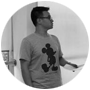
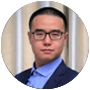
Kodluyoruz <3

diff --git a/index.html b/index.html
@@ -260,7 +260,7 @@
 
                 <div class="single_speaker">
                     <div class="speaker_thumb">
-                        <img src="img/speakers/brett-koonce.png" alt="">
+                        <img src="img/speakers/brett.png" alt="">
                         <div class="hover_overlay">
                             <div class="social_icon">
                                 <a href="https://brettkoonce.com/" target="_blank"><i class="fa fa-link"></i></a>
@@ -318,6 +318,25 @@
                         <p>Senior Android Developer at Nagarro</p>
                     </div>
                 </div>
+
+                <div class="single_speaker">
+                    <div class="speaker_thumb">
+                        <img src="img/speakers/muhammed.png" alt="">
+                        <div class="hover_overlay">
+                            <div class="social_icon">
+                                <a href="https://salih.dev/#/" target="_blank"><i class="fa fa-link"></i></a>
+                                <a href="https://github.com/salihgueler" target="_blank"><i
+                                        class="fa fa-github"></i></a>
+                                <a href="https://www.linkedin.com/in/msalihguler/" target="_blank"><i
+                                        class="fa fa-linkedin"></i></a>
+                            </div>
+                        </div>
+                    </div>
+                    <div class="speaker_name text-center">
+                        <h3>Muhammed Salih Güler</h3>
+                        <p>Senior Software Engineer at Superlist</p>
+                    </div>
+                </div>
             </div>
             <div class="col-xl-5 offset-xl-2 col-md-6">
 
@@ -359,10 +378,6 @@
                         <img src="img/speakers/abdulla-ismayilov.png" alt="">
                         <div class="hover_overlay">
                             <div class="social_icon">
-                                <a href="https://www.linkedin.com/in/malekmalkawi0/" target="_blank"><i
-                                        class="fa fa-linkedin"></i></a>
-                                <a href="https://twitter.com/malekmalkawi0?lang=en" target="_blank"><i
-                                        class="fa fa-twitter"></i></a>
                             </div>
                         </div>
                     </div>
@@ -407,6 +422,24 @@
                     <div class="speaker_name text-center">
                         <h3>Maxim Salnikov</h3>
                         <p>Azure Developer Technical Lead & Web GDE</p>
+                    </div>
+                </div>
+
+                <div class="single_speaker">
+                    <div class="speaker_thumb">
+                        <img src="img/speakers/juan.png" alt="">
+                        <div class="hover_overlay">
+                            <div class="social_icon">
+                                <a href="https://www.linkedin.com/in/jdjuan/" target="_blank"><i
+                                        class="fa fa-linkedin"></i></a>
+                                <a href="https://twitter.com/jdjuan?lang=en" target="_blank"><i
+                                        class="fa fa-twitter"></i></a>
+                            </div>
+                        </div>
+                    </div>
+                    <div class="speaker_name text-center">
+                        <h3>Juan Herrera</h3>
+                        <p>Google Developer Expert in Angular & Web Technologies</p>
                     </div>
                 </div>
             </div>
@@ -500,7 +533,7 @@
                         </div>
                     </div>
                     <div class="single_speaker">
-                        <img src="img/speakers/brettkoonce.png" alt="">
+                        <img src="img/speakers/brett-.png" alt="">
                         <div class="speaker-name">
                             <div class="heading d-flex justify-content-between align-items-center">
                                 <span>Brett Koonce</span>
@@ -581,10 +614,10 @@
                 </div>
                 <div class="col-xl-9 col-lg-9">
                     <div class="single_speaker">
-                        <img src="img/speakers/maximsalnikov.png" alt="">
+                        <img src="img/speakers/juan-.png" alt="">
                         <div class="speaker-name">
                             <div class="heading d-flex justify-content-between align-items-center">
-                                <span>Maxim Salnikov</span>
+                                <span>Juan Herrera</span>
                                 <div class="time">
                                     13:00 - 14:00
                                 </div>
@@ -592,23 +625,25 @@
                             <p>Front-End Development </p>
                         </div>
                     </div>
+
                     <div class="single_speaker">
-                        <img src="img/speakers/default.png" alt="">
+                        <img src="img/speakers/maximsalnikov.png" alt="">
                         <div class="speaker-name">
                             <div class="heading d-flex justify-content-between align-items-center">
-                                <!--                                <span>Gant Laborde</span>-->
+                                <span>Maxim Salnikov</span>
                                 <div class="time">
                                     14:00 - 15:00
                                 </div>
                             </div>
-                            <p>Back-End Development </p>
+                            <p>Front-End Development </p>
                         </div>
                     </div>
+
                     <div class="single_speaker">
-                        <img src="img/speakers/default.png" alt="">
+                        <img src="img/speakers/muhammed-.png" alt="">
                         <div class="speaker-name">
                             <div class="heading d-flex justify-content-between align-items-center">
-                                <!--                                <span>Rihanna Kedir</span>-->
+                                <span>Muhammed Salih Güler</span>
                                 <div class="time">
                                     15:00 - 16:00
                                 </div>
@@ -707,6 +742,12 @@
                     <div class="single_brand text-center">
                         <a href="https://kahvegibikahve.com/" target="_blank"><img
                                 src="img/barnd/kahvegibikahve-logo.png"
+                                alt=""></a>
+                    </div>
+
+                    <div class="single_brand text-center">
+                        <a href="https://www.kodluyoruz.org/" target="_blank"><img
+                                src="img/barnd/kodluyoruz-logo.png"
                                 alt=""></a>
                     </div>
 
